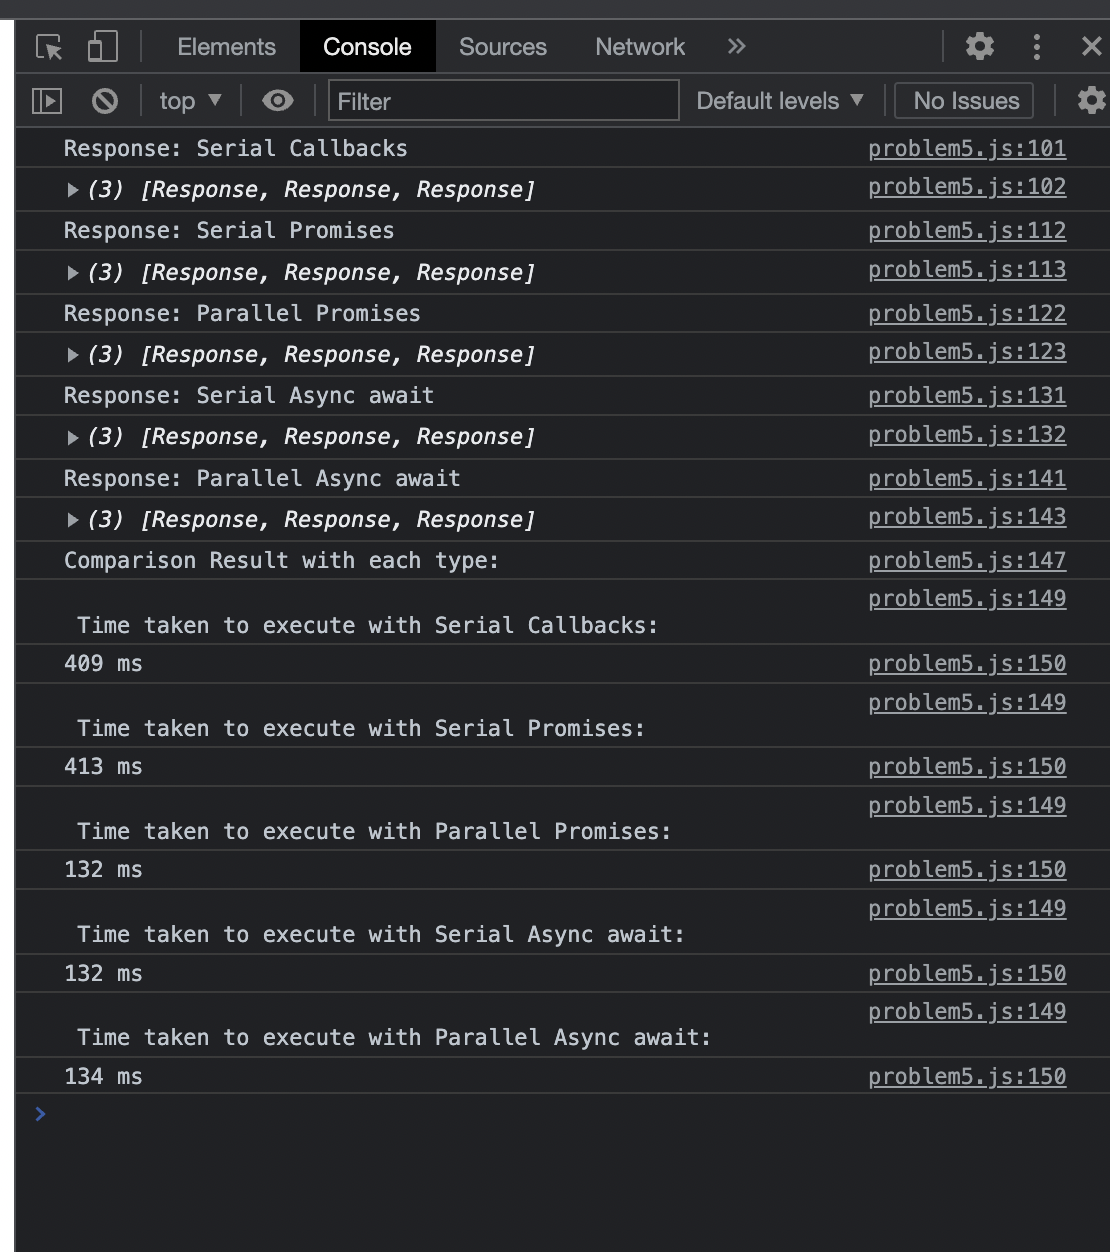
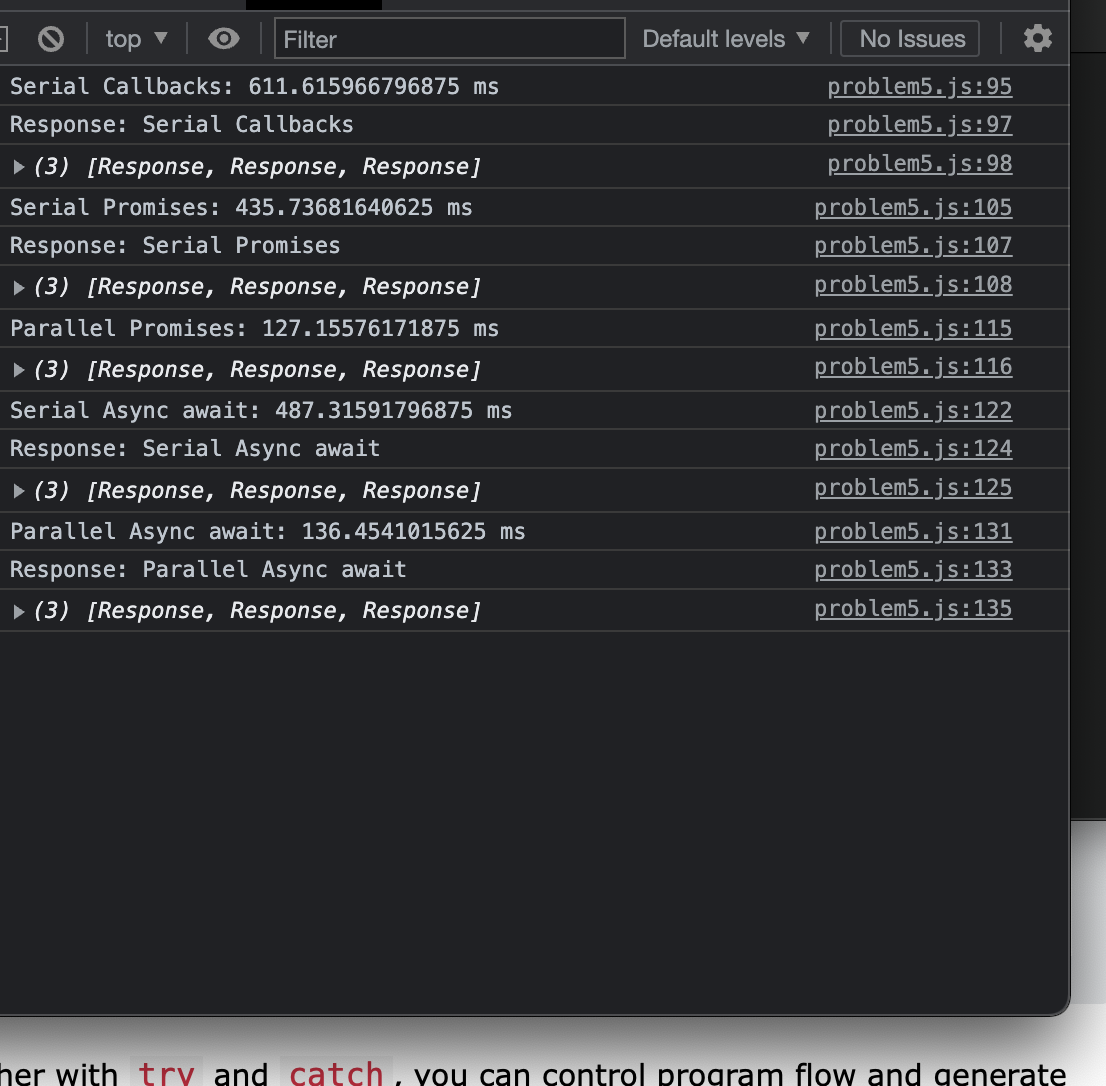
changes as per review

Changed region(s): [[0.0, 0.0, 1.0, 1.0], [0.0615, 0.8204, 0.6456, 0.8812], [0.0615, 0.7293, 0.6148, 0.7901]]

diff --git a/week1/problem5.js b/week1/problem5.js
@@ -75,7 +75,6 @@ const asyncPar = async (urls) => {
 
 
 let results = [];
-let executionTime={};
 
 async function main() {
   try {
@@ -87,69 +86,53 @@ async function main() {
     ];
 
     
-    let startTime;
-    let endTime;
-    let totalTime;
 
     // Serial Callbacks
-    startTime = new Date().getTime();
+
+    console.time("Serial Callbacks");
     results = [];
     results = await callbackSeq(urls, callbackSeq);
-    endTime = new Date().getTime();
-    totalTime = endTime - startTime;
-    executionTime['Serial Callbacks']=totalTime + " ms";
+    console.timeEnd("Serial Callbacks");
+
     console.log("Response: Serial Callbacks ");
     console.log(results);
 
 
     // Serial Promises
-    startTime = new Date().getTime();
+    console.time("Serial Promises");
     results = [];
     results = await promiseSeq(urls);
-    endTime = new Date().getTime();
-    totalTime = endTime - startTime;
-    executionTime['Serial Promises']=totalTime + " ms";
+    console.timeEnd("Serial Promises");
+
     console.log("Response: Serial Promises");
     console.log(results);
 
     // Parallel Promises
+    console.time("Parallel Promises");
     startTime = new Date().getTime();
     results = [];
     results = await promisePar(urls);
-    endTime = new Date().getTime();
-    totalTime = endTime - startTime;
-    executionTime['Parallel Promises']=totalTime + " ms";
-    console.log("Response: Parallel Promises");
+    console.timeEnd("Parallel Promises");
     console.log(results);
 
     // Serial Async await
-    startTime = new Date().getTime();
+    console.time("Serial Async await");
     results = [];
     results = await asyncSeq(urls);
-    endTime = new Date().getTime();
-    executionTime['Serial Async await']=totalTime + " ms";
+    console.timeEnd("Serial Async await");
+
     console.log("Response: Serial Async await ");
     console.log(results);
 
     // Parallel Async await
-    startTime = new Date().getTime();
+    console.time("Parallel Async await");
     results = [];
     results = await asyncPar(urls);
-    endTime = new Date().getTime();
-    totalTime = endTime - startTime;
-    executionTime['Parallel Async await']=totalTime + " ms";
+    console.timeEnd("Parallel Async await");
+
     console.log("Response: Parallel Async await ");
     results = results.map((res) => res);
     console.log(results);
-
-
-
-    console.log("Comparison Result with each type: ");
-    for (const item in executionTime) {
-        console.log(`\n Time taken to execute with ${item}: `);
-        console.log(executionTime[item])
-      }
-      
 
   } catch (error) {
     console.log(error);

diff --git a/week1/problem2.js b/week1/problem2.js
@@ -1,47 +1,54 @@
 //Problem 2
 //Introduce a populate method in array class in a way such that you can call it:
 
-import fetch from 'cross-fetch';
 
 
 
 let arrayOfUrls = [
     "https://jsonplaceholder.typicode.com/todos/1",
     "https://jsonplaceholder.typicode.com/todos/2",
-    "invalidUrl.com"
-    
   ];
   
   Array.prototype.populatee = async function () {
-    for (let i in this) {
-    
-        await fetch(this[i])
+   
+  
+    this.forEach((url,i)=>{
+      try{
+        fetch(url)
         .then(response => response.json())
         .then(json => this[i]=json)
         .catch(()=>this[i] = "invalid url")
-     
-    }
+      }catch(err){
+        console.log(err);
+      }
+   
+    })
+    
+        
     return this;
   };
 
-  arrayOfUrls
-    .populatee()
-    .then(() => {
-      console.log(arrayOfUrls);
-    })
-    .catch((err) => {
-      console.log(err);
-    });
+arrayOfUrls
+  .populatee()
+  .then(() => {
+    console.log(arrayOfUrls);
+  })
+  .catch((err) => {
+    console.log(err);
+  });
 
 //Output
 // [
-//   { userId: 1, id: 1, title: 'delectus aut autem', completed: false },
 //   {
-//     userId: 1,
-//     id: 2,
-//     title: 'quis ut nam facilis et officia qui',
-//     completed: false
+//       "userId": 1,
+//       "id": 1,
+//       "title": "delectus aut autem",
+//       "completed": false
 //   },
-//   'invalid url',
-//   populate: 'invalid url'
+//   {
+//       "userId": 1,
+//       "id": 2,
+//       "title": "quis ut nam facilis et officia qui",
+//       "completed": false
+//   }
 // ]

diff --git a/week1/problem4.js b/week1/problem4.js
@@ -3,6 +3,33 @@
 //data from api url passed as argument but if you call the same function again with the same url then will it 
 //return previously received result instead of fetching it again.
 
+
+
+
+const runtineMemoizedFetch = () => {
+
+  const cache = {};
+  return async (...args) => {
+    const key = JSON.stringify(args);
+    if (!cache[key]) {
+      try {
+        console.log("From Api-Runtime ");
+        const response = await fetch(url);
+        cache[key] = response;
+        console.log(cache[key]);
+        return cache[key];
+      } catch (err) {
+        console.log("Something went wrong: " + err);
+        return err;
+      }
+     
+    }
+    console.log("From cache-Runtime");
+    console.log(cache[key]);
+    return cache[key];
+  };
+};
+
 let memoizedFetch = (url) => {
   caches.open('fetchedURLs').then( cache => {
     cache.match(url).then(res => {
@@ -22,5 +49,17 @@ let memoizedFetch = (url) => {
 }
 
 
-let url = 'https://jsonplaceholder.typicode.com/todos/1';
-memoizedFetch(url)
+const url = 'https://jsonplaceholder.typicode.com/todos/1';
+
+const runtineMemoize = runtineMemoizedFetch();
+async function main() {
+  // Runtime cache test
+  await runtineMemoize(url); 
+  await runtineMemoize(url);
+
+  // Using cache
+  memoizedFetch(url)
+  memoizedFetch(url)
+}
+
+main();

diff --git a/week1/problem3.js b/week1/problem3.js
@@ -3,25 +3,27 @@
 //sum(1)(2)(3);
 
 
-function sum(...args) {
 
-    function add(...args2) {
-      return sum(...args, ...args2);
+let sum = (num) => {
+  let total = num;
+
+  return (subNum = (item) => {
+    if (item != undefined) {
+      total += item;
+      return subNum;
     }
-  
-    const curr = [...args].reduce((acc, curr) => acc + curr, 0);
-    add.value = curr;
-    return add;
-  }
+    return total;
+  });
+};
 
 
 
-console.log(sum(1).value);
-console.log(sum(1)(2).value);
-console.log(sum(1)(2)(3).value);
-console.log(sum(1)(2)(3)(4).value);
-console.log(sum(1)(2)(3)(4)(5).value);
-console.log(sum(1)(2)(3)(4)(5)(6).value);
+console.log(sum(1)());
+console.log(sum(1)(2)());
+console.log(sum(1)(2)(3)());
+console.log(sum(1)(2)(3)(4)());
+console.log(sum(1)(2)(3)(4)(5)());
+console.log(sum(1)(2)(3)(4)(5)(6)());
 
 // Output
 // 1

diff --git a/week1/problem1.js b/week1/problem1.js
@@ -1,18 +1,28 @@
 //Problem 1
 //Write a function that can sum any number of arguments. 
 
-let sum = (...args) => args.reduce ((previousValue, currentValue) => previousValue + currentValue,0);
+let sum = (...args) => args.reduce ((previousValue, currentValue) => {
+
+    if(typeof previousValue=="string" || typeof currentValue=="string"){
+        throw "Expected Integers";
+    }
+    return previousValue + currentValue
+}
+,0);
  
 console.log(sum(1,2,3));
 console.log(sum(4,5));
 console.log(sum(2,6,7,8));
 console.log(sum(1,2,5,6));
-console.log(sum(1));
-console.log(sum());
+console.log(sum(5,"ff"));
+
 //Output
 // 6
 // 9
 // 23
 // 14
-// 1
-// 0
+
+// node:internal/process/esm_loader:94
+//     internalBinding('errors').triggerUncaughtException(
+//                               ^
+// Expected Integers
